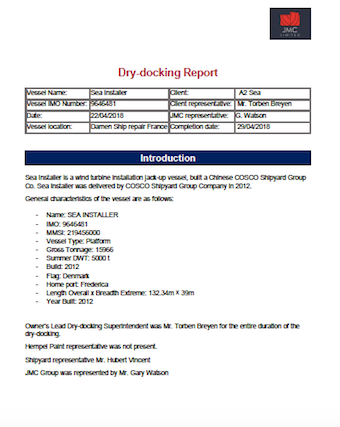
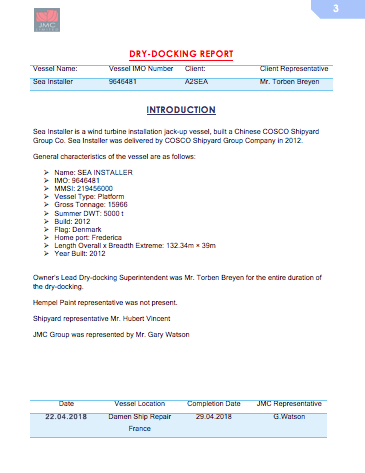
Corrected Report images and Added video at about page

Changed region(s): [[0.0588, 0.0913, 0.9118, 0.9438], [0.7941, 0.0, 1.0, 0.0913], [0.0882, 0.0, 0.1765, 0.0913]]

diff --git a/src/components/Sample/report.js b/src/components/Sample/report.js
@@ -1,15 +1,15 @@
 import React from 'react';
 import { Link } from 'react-router-dom';
 import Cover from '../../Resources/img/ReportCover.png';
-import Intro from '../../Resources/img/intro.png';
-import Scope from '../../Resources/img/scope.png';
-import Eval from '../../Resources/img/evaluation.png';
+import Intro from '../../Resources/img/intro.png'; //
+import Scope from '../../Resources/img/scope.png'; //
+import Eval from '../../Resources/img/detail.png'; //
 import Photo from '../../Resources/img/photos.png';
 import Prog from '../../Resources/img/progress.png';
 import Ref from '../../Resources/img/reference.png';
-import Sched from '../../Resources/img/sched.png';
-import Conc from '../../Resources/img/conclusion.png';
-
+import Sched from '../../Resources/img/sched.png'; //
+import Conc from '../../Resources/img/conclusion.png'; //
+ 
 const Report = () => {
   return (
     <div className="sample_section_style" >

diff --git a/src/components/Header_footer/Footer/index.js b/src/components/Header_footer/Footer/index.js
@@ -6,10 +6,10 @@ const Footer = () => {
   return (
     <footer>
       <div className="footer-text" >
-      <h3  >&copy; JMC-Limited 2018. Follow Us</h3>
+      <h3  >&copy; JMC-Limited 2019. Follow Us</h3>
     </div>
     <div className="footer-icons">
-      <a href="https://www.facebook.com"><i className="fa fa-facebook"></i></a>
+      <a href="https://www.facebook.com/JMC-Limited-249135151800194/"><i className="fa fa-facebook"></i></a>
       <a href="https://www.twitter.com"><i className="fa fa-twitter"></i></a>
       <a href="https://www.instagram.com"><i className="fa fa-instagram"></i></a>
       <a href="https://www.linkedin.com/"><i className="fa fa-linkedin"></i></a>

diff --git a/src/components/Capability/banner.js b/src/components/Capability/banner.js
@@ -7,7 +7,7 @@ const Banner = () => {
       <div className="cap-banner-box-con">
         <h1 className="cap-banner-title-con">Our capabilities - Your Solutions</h1>
         <div className="cap-banner-underline-con"></div>
-        <h3 className="cap-banner-subtitle-con">As your marine corrosion control partner - we have proven track records since our inception and helped many shipowners with their projects.</h3>
+        <h3 className="cap-banner-subtitle-con">Since the beginning - We have completed and helped many Shipowners in providing Corrosion Solutions in their fleet.</h3>
       </div>
     </div>
     

diff --git a/public/index.html b/public/index.html
@@ -13,7 +13,7 @@
     
     <link rel="manifest" href="%PUBLIC_URL%/manifest.json">
     
-    <title>JMC Limited</title>
+    <title>JMC-Limited. Marine Corrosion Experts</title>
   </head>
   <body>
       <script src="https://code.jquery.com/jquery-3.3.1.slim.min.js" integrity="sha384-q8i/X+965DzO0rT7abK41JStQIAqVgRVzpbzo5smXKp4YfRvH+8abtTE1Pi6jizo" crossorigin="anonymous"></script>

diff --git a/src/components/About/topic.js b/src/components/About/topic.js
@@ -14,7 +14,7 @@ const Topic = () => {
       <div className='player-wrapper'>
         <ReactPlayer
           className='react-player'
-          url='https://youtu.be/b48HuJxCkaY'
+          url='https://www.youtube.com/watch?v=qsTP1aMnlfM'
           width='100%'
           height='100%'
         />

diff --git a/src/components/Capability/newbuild.js b/src/components/Capability/newbuild.js
@@ -1,4 +1,5 @@
 import React from "react";
+// import { Link } from 'react-router-dom';
 
 const Newbuild = () => {
   return (
@@ -96,6 +97,7 @@ const Newbuild = () => {
           </div>
         </div>
       </div>
+      
     </section>
   );
 };
